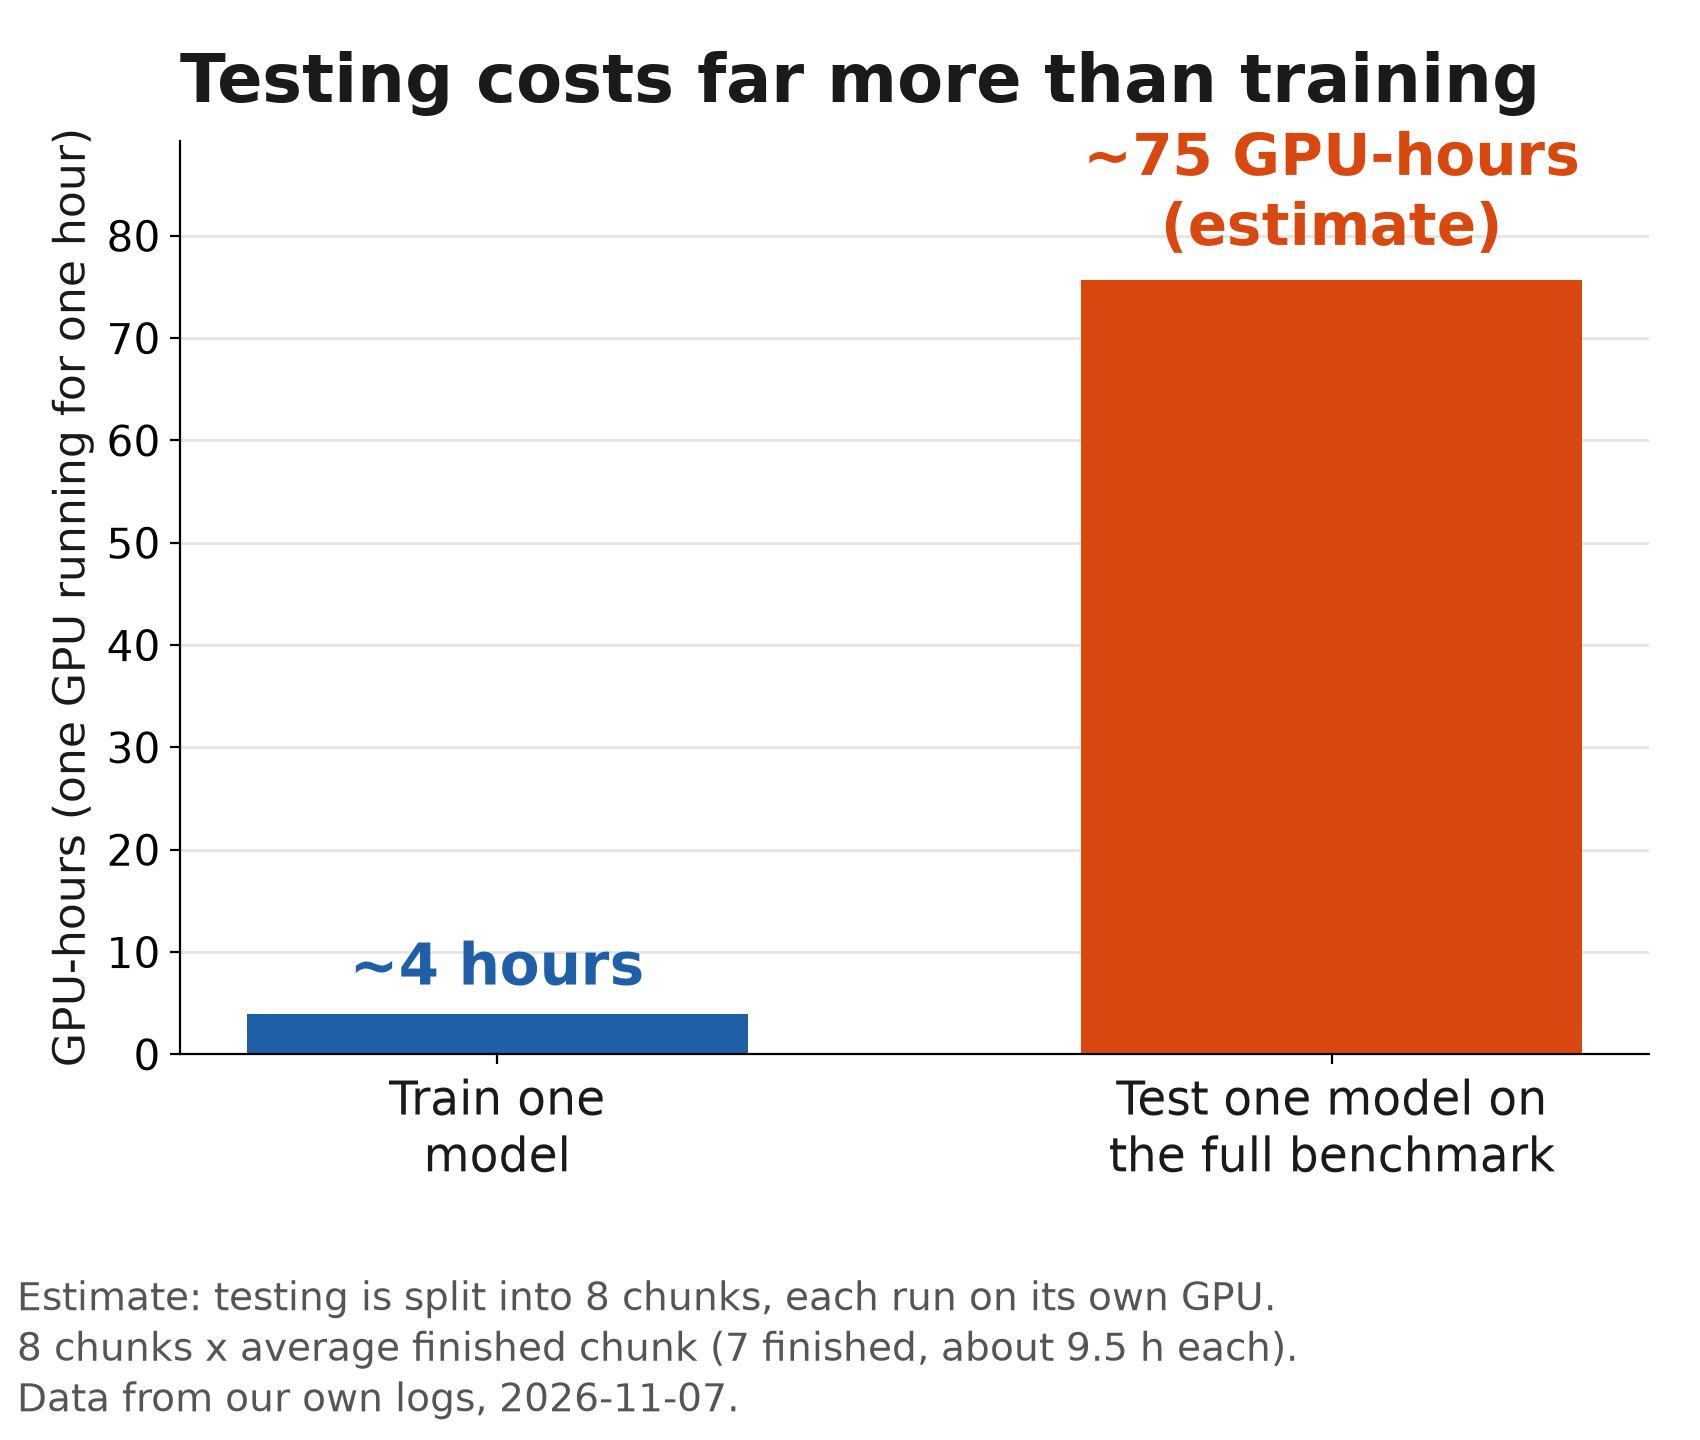
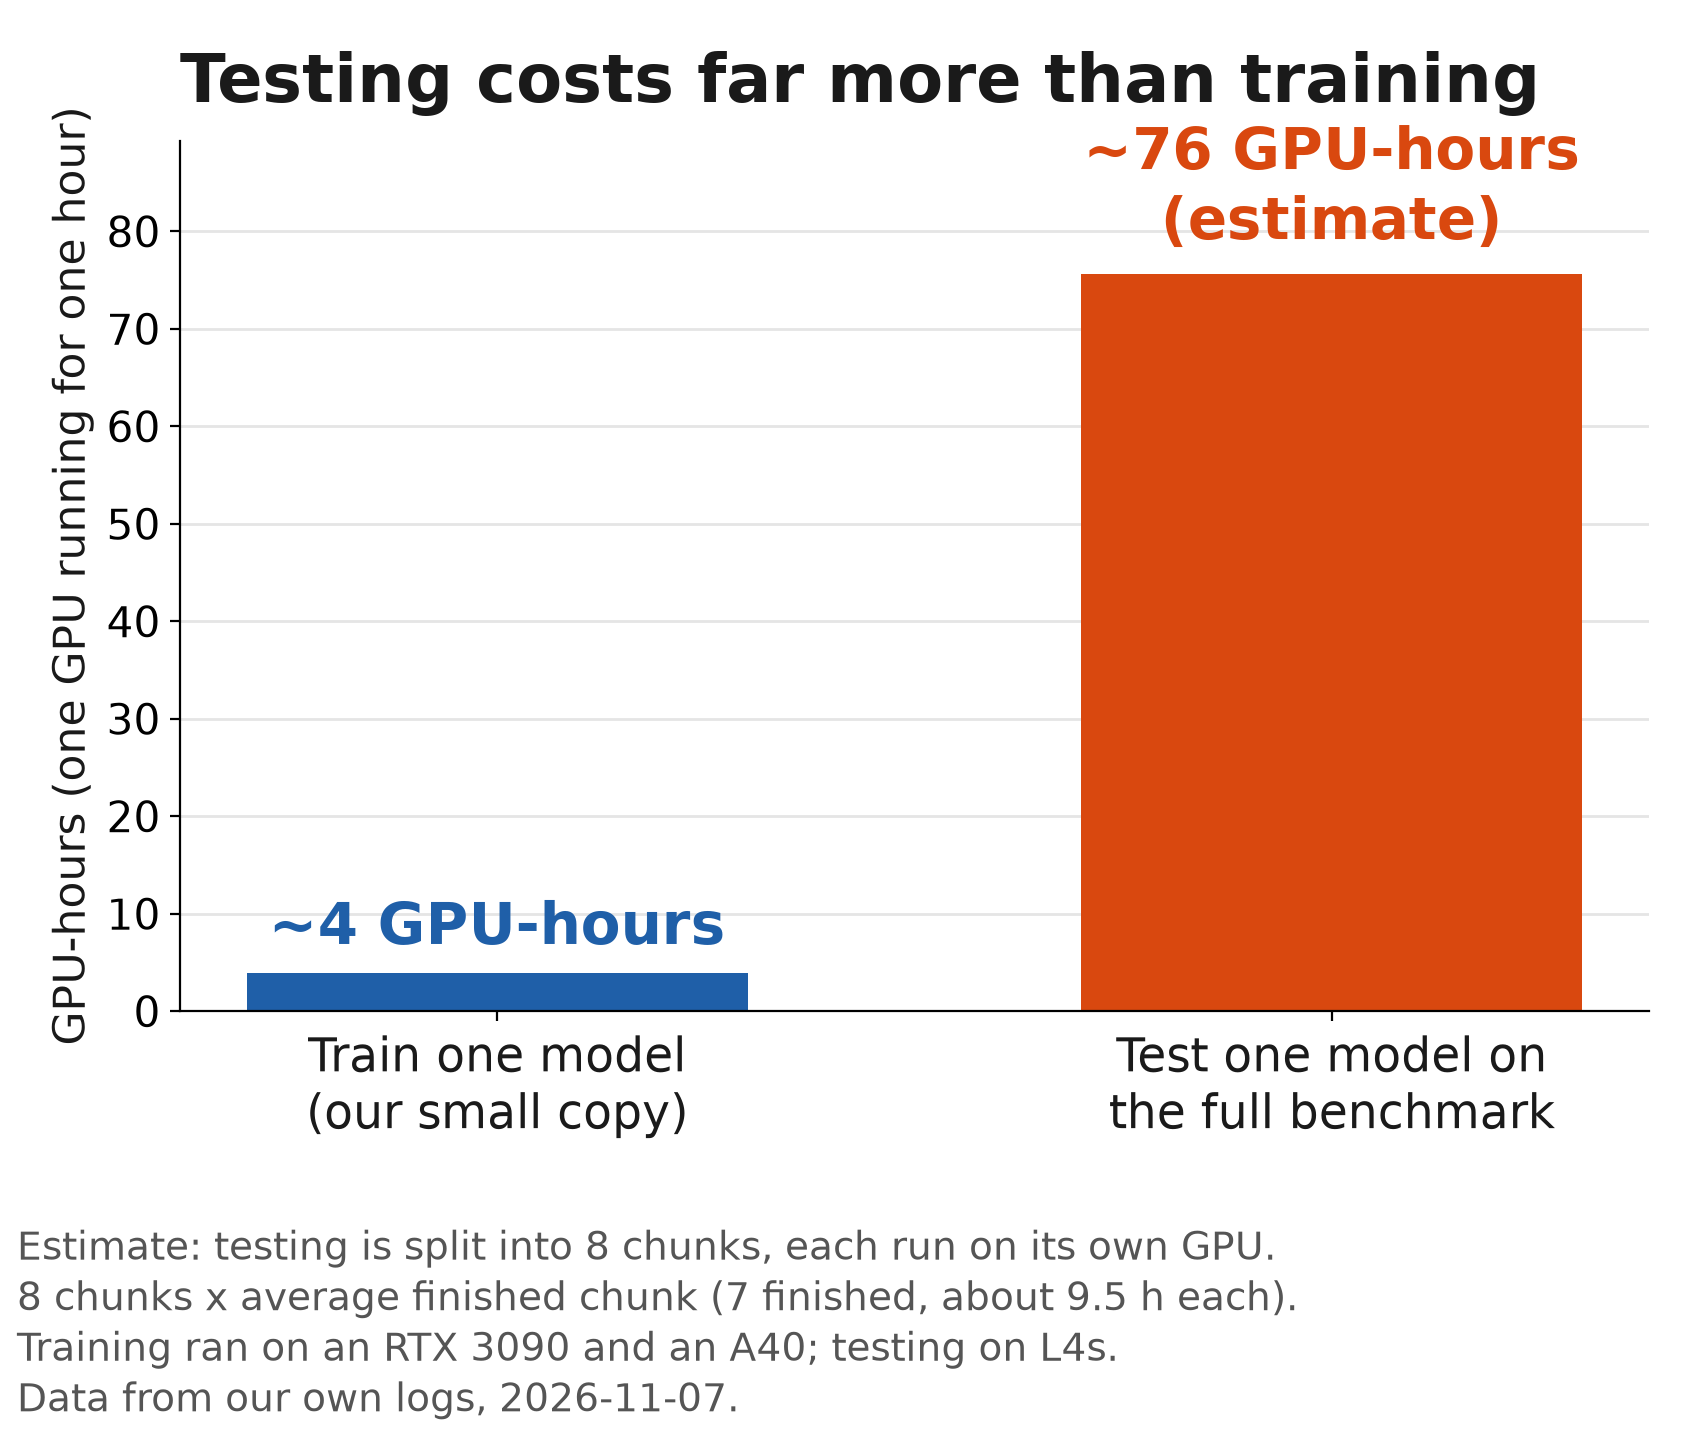
world-model-stacking-encoders: compute charts fixed after review (whole-run GPU averages, wording)

diff --git a/world-model-stacking-encoders/src/plot_compute_cost.py b/world-model-stacking-encoders/src/plot_compute_cost.py
@@ -3,7 +3,7 @@
 #
 # Slide figures for "Main Bottlenecks: Compute".
 #  1) 2026-11-07-compute-cost.png: GPU time to train one model vs ESTIMATED GPU time to test one model.
-#  2) 2026-11-07-gpu-busy-during-testing.png: GPU busy % samples during testing (separate PNG so each
+#  2) 2026-11-07-gpu-use-during-testing.png: whole-run average GPU use during testing (separate PNG so each
 #     stays readable at half-slide width).
 #
 # Training time definition: the "[proxy NNNNs] wrote /mnt/proxy/runs/..." line, i.e. seconds on the
@@ -27,7 +27,7 @@ DIR = os.path.join(HERE, "..")
 LOGS = os.path.join(DIR, "experiments", "2026-10-27-proxy-calibration", "results", "logs")
 FIG = os.path.join(DIR, "writing", "figures")
 OUT1 = os.path.join(FIG, "2026-11-07-compute-cost.png")
-OUT2 = os.path.join(FIG, "2026-11-07-gpu-busy-during-testing.png")
+OUT2 = os.path.join(FIG, "2026-11-07-gpu-use-during-testing.png")
 TRAIN_LOGS = ["train-wave1-dinov3-s1-sh9hj.log", "train-wave1c-dinov3-s0-a40-bj6bf.log"]
 N_CHUNKS = 8
 MIN_GPU_USE = 40
@@ -69,20 +69,22 @@ print(f"{len(chunks)} finished chunks; mean chunk time {mean_chunk:.0f} s = {mea
 print(f"ESTIMATE: test one model = {N_CHUNKS} x mean chunk = {test_h:.1f} GPU-hours "
       f"({test_h/train_h:.1f}x the training time)")
 
-# ---- GPU utilisation samples
-gpu = {}
-for p in sorted(glob.glob(os.path.join(LOGS, "eval-dinov3-*-nvsmi-all5.csv"))):
-    vals = []
-    for line in open(p):
-        parts = line.strip().split(",")
-        if len(parts) == 2:
-            try:
-                vals.append(int(parts[1]))
-            except ValueError:
-                pass
-    gpu[os.path.basename(p)] = vals
-    print(f"gpu {os.path.basename(p)}: {len(vals)} samples, mean {statistics.mean(vals):.1f}%, "
-          f"median {statistics.median(vals):.1f}%")
+# ---- whole-run GPU use per finished L4 chunk ("mean X% over N samples" line in each eval log)
+l4 = []
+for c in chunks:
+    val = None
+    for line in open(os.path.join(LOGS, c[0])):
+        m = re.search(r"mean ([\d.]+)% over (\d+) samples", line)
+        if m:
+            val = (float(m.group(1)), int(m.group(2)))
+    print(f"gpu use {c[0]}: whole-run mean {val[0]}% over {val[1]} samples")
+    l4.append(val[0])
+# Fast-GPU values are NOT in raw files; copied from the experiment LOG.md
+# (world-model-stacking-encoders/experiments/2026-10-27-proxy-calibration/LOG.md):
+A40_USE = 19.95  # LOG 2026-11-07 (d): cluster monitor 10-min average ~30 min into the A40 run
+L40_USE = 22.8   # LOG 2026-11-07 (k): cluster monitor (DCGM) mean over the ~4 h L40 run
+print(f"A40 (first 30 min): {A40_USE}% (hardcoded from LOG 2026-11-07 (d))")
+print(f"L40 (~4-hour average): {L40_USE}% (hardcoded from LOG 2026-11-07 (k))")
 
 BLUE, ORANGE, INK, GREY = "#1f5fa8", "#d9480f", "#1a1a1a", "#555555"
 plt.rcParams.update({"font.size": 17, "font.family": "sans-serif"})
@@ -91,12 +93,12 @@ plt.rcParams.update({"font.size": 17, "font.family": "sans-serif"})
 fig, ax = plt.subplots(figsize=(8.5, 7.2), dpi=200)
 ax.bar([0, 1], [train_h, test_h], width=0.6, color=[BLUE, ORANGE])
 ax.set_xticks([0, 1])
-ax.set_xticklabels(["Train one\nmodel", "Test one model on\nthe full benchmark"], fontsize=17, color=INK)
+ax.set_xticklabels(["Train one model\n(our small copy)", "Test one model on\nthe full benchmark"], fontsize=17, color=INK)
 ax.set_ylabel("GPU-hours (one GPU running for one hour)", fontsize=16, color=INK)
 ax.set_ylim(0, test_h * 1.18)
-ax.text(0, train_h + test_h * 0.02, f"~{train_h:.0f} hours", ha="center", va="bottom",
+ax.text(0, train_h + test_h * 0.02, f"~{train_h:.0f} GPU-hours", ha="center", va="bottom",
         fontsize=21, fontweight="bold", color=BLUE)
-ax.text(1, test_h + test_h * 0.02, f"~{round(test_h / 5) * 5:.0f} GPU-hours\n(estimate)", ha="center",
+ax.text(1, test_h + test_h * 0.02, f"~{test_h:.0f} GPU-hours\n(estimate)", ha="center",
         va="bottom", fontsize=21, fontweight="bold", color=ORANGE)
 ax.set_title("Testing costs far more than training", fontsize=24, fontweight="bold", color=INK, loc="left", pad=14)
 for s in ("top", "right"):
@@ -107,39 +109,51 @@ ax.tick_params(axis="y", labelsize=15)
 fig.text(0.01, 0.01,
          "Estimate: testing is split into 8 chunks, each run on its own GPU.\n"
          f"8 chunks x average finished chunk ({len(chunks)} finished, about {mean_chunk / 3600:.1f} h each).\n"
+         "Training ran on an RTX 3090 and an A40; testing on L4s.\n"
          "Data from our own logs, 2026-11-07.",
          fontsize=14, color=GREY, ha="left", va="bottom", linespacing=1.3)
-fig.tight_layout(rect=(0, 0.14, 1, 1))
+fig.tight_layout(rect=(0, 0.17, 1, 1))
 fig.savefig(OUT1, dpi=200, facecolor="white")
 plt.close(fig)
 print("wrote", OUT1)
 
 # ---- figure 2
-fig, ax = plt.subplots(figsize=(8.5, 7.2), dpi=200)
-rng = np.random.default_rng(0)
-for i, v in enumerate(gpu.values()):
-    x = i + rng.uniform(-0.22, 0.22, len(v))
-    ax.scatter(x, v, s=14, color=BLUE, alpha=0.45, linewidths=0)
-    ax.hlines(statistics.median(v), i - 0.3, i + 0.3, color=INK, lw=3, zorder=5)
-ax.axhline(MIN_GPU_USE, color=ORANGE, lw=3, ls="--", zorder=4)
-ax.text(len(gpu) - 0.5, MIN_GPU_USE + 2, "Cluster's minimum GPU use (40%)", ha="right", va="bottom",
-        fontsize=16, fontweight="bold", color=ORANGE,
-        bbox=dict(facecolor="white", edgecolor="none", pad=2, alpha=0.9), zorder=6)
-ax.set_ylim(0, 105)
-ax.set_xlim(-0.6, len(gpu) - 0.4)
-ax.set_xticks(range(len(gpu)))
-ax.set_xticklabels([f"Test\nmachine {i + 1}" for i in range(len(gpu))], fontsize=16, color=INK)
-ax.set_ylabel("GPU busy (%)", fontsize=18, color=INK)
-ax.set_title("The GPU sits partly idle during testing", fontsize=24, fontweight="bold", color=INK, loc="left", pad=14)
-for s in ("top", "right"):
-    ax.spines[s].set_visible(False)
+fig, ax = plt.subplots(figsize=(10, 7.2), dpi=200)
+vals = l4 + [A40_USE, L40_USE]
+n = len(vals)
+cols = [BLUE] * len(l4) + [ORANGE, ORANGE]
+ax.bar(range(n), vals, width=0.7, color=cols)
+for i, v in enumerate(vals):
+    ax.text(i, v - 2, f"{v:.0f}%", ha="center", va="top", fontsize=15, fontweight="bold", color="white")
+ax.axhline(MIN_GPU_USE, color=INK, lw=2.5, ls="--", zorder=1)
+ax.annotate("Cluster's minimum average GPU use (40%)", xy=(3.5, MIN_GPU_USE), xytext=(-0.4, 78),
+            ha="left", va="bottom", fontsize=15, fontweight="bold", color=INK,
+            arrowprops=dict(arrowstyle="-|>", color=INK, lw=1.5))
+ax.annotate("Too idle: stopped.\nThe L40 run triggered the\ncluster's idle-GPU warning email",
+            xy=(7.5, 26), xytext=(6.4, 58), ha="center", va="bottom",
+            fontsize=14, fontweight="bold", color=ORANGE,
+            arrowprops=dict(arrowstyle="-|>", color=ORANGE, lw=2))
+ax.set_ylim(0, 100)
+ax.set_xlim(-0.6, 8.6)
+ax.set_xlim(-0.6, n - 0.4)
+ax.set_xticks(range(n))
+ax.set_xticklabels([f"L4 GPU {i + 1}" for i in range(len(l4))] + ["A40 (first 30 min)", "L40 (~4-hour average)"],
+                   fontsize=13, color=INK, rotation=0)
+for lab in ax.get_xticklabels():
+    lab.set_rotation(45)
+    lab.set_ha("right")
+ax.set_ylabel("GPU busy, average (%)", fontsize=17, color=INK)
+ax.set_title("Testing uses about half a GPU,\nand much less on fast GPUs", fontsize=22, fontweight="bold",
+             color=INK, loc="left", pad=14)
+for s_ in ("top", "right"):
+    ax.spines[s_].set_visible(False)
 ax.grid(axis="y", color="#e5e5e5", lw=1)
 ax.set_axisbelow(True)
 ax.tick_params(axis="y", labelsize=15)
 fig.text(0.01, 0.01,
-         "Each dot is one reading (every ~2 seconds); black bar = typical (median) reading.\n"
-         "About 5 minutes sampled per test machine. Data from our own logs, 2026-11-07.",
-         fontsize=14, color=GREY, ha="left", va="bottom", linespacing=1.3)
+         "L4: each test chunk's own whole-run average. A40/L40: cluster monitor readings recorded in our log.\n"
+         "The simulator runs on the CPU, so a faster GPU just waits more.",
+         fontsize=13, color=GREY, ha="left", va="bottom", linespacing=1.3)
 fig.tight_layout(rect=(0, 0.1, 1, 1))
 fig.savefig(OUT2, dpi=200, facecolor="white")
 print("wrote", OUT2)
